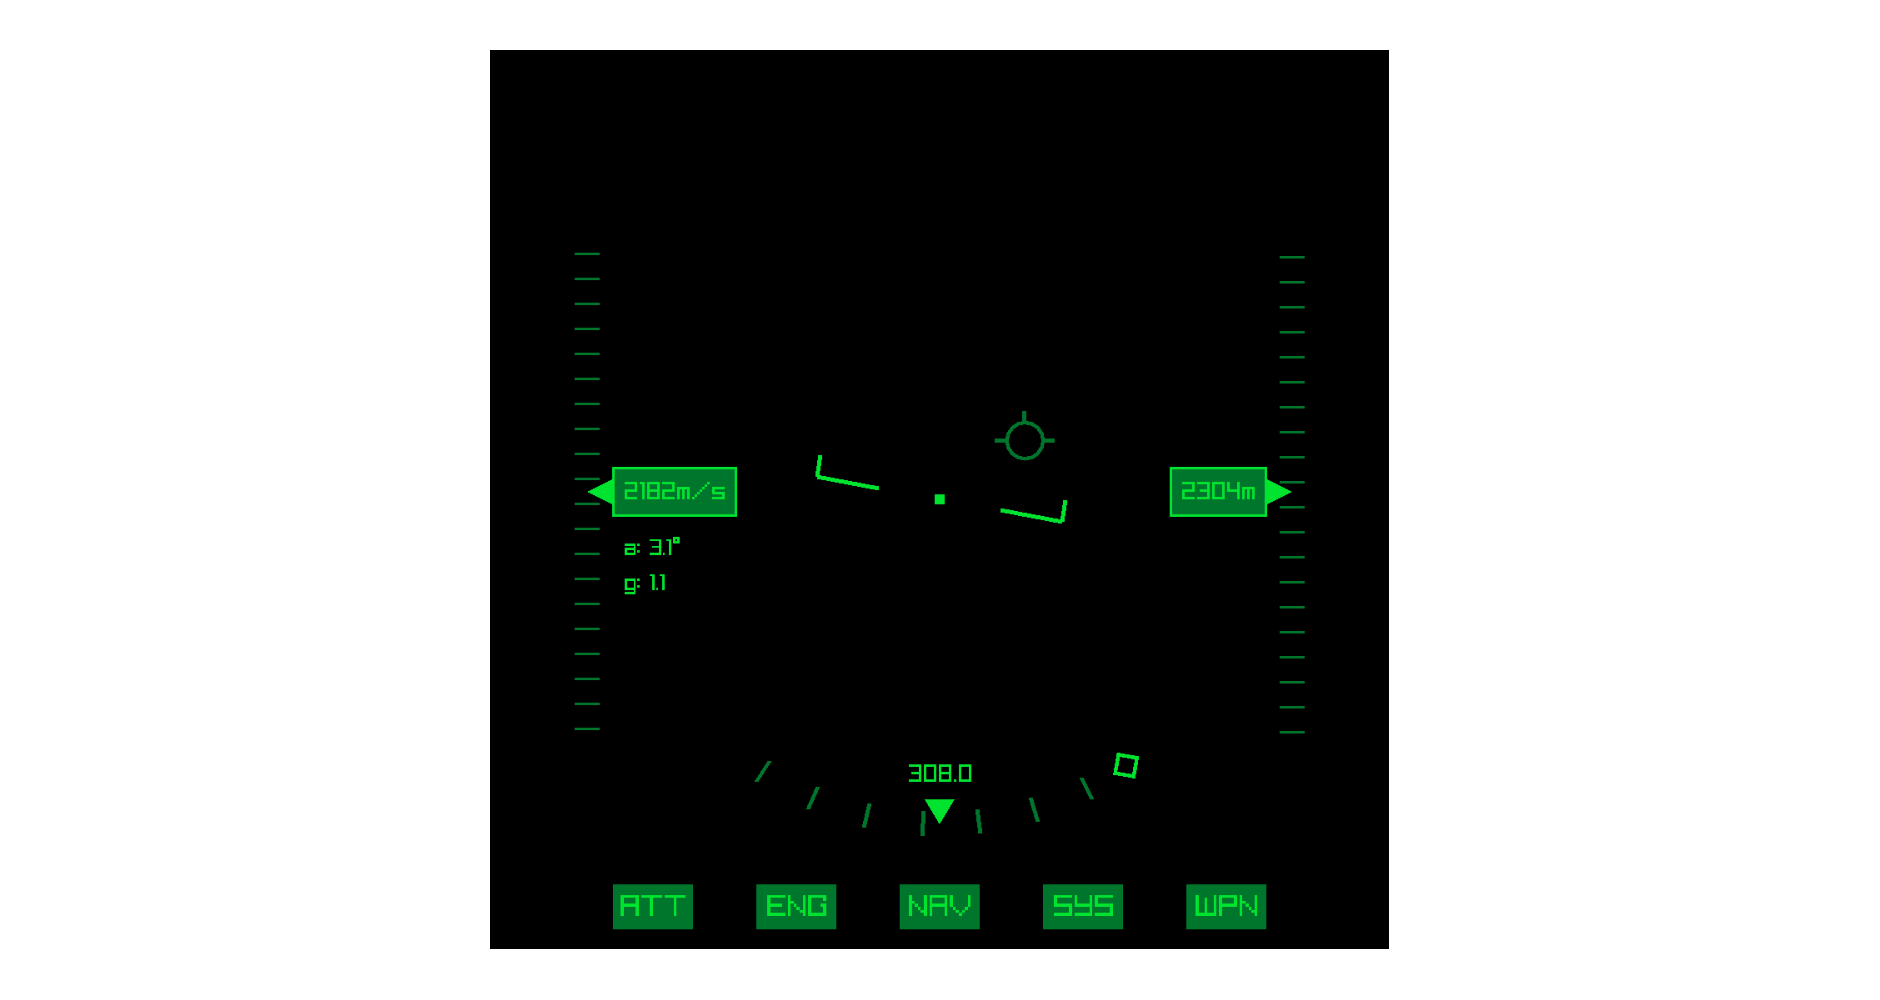
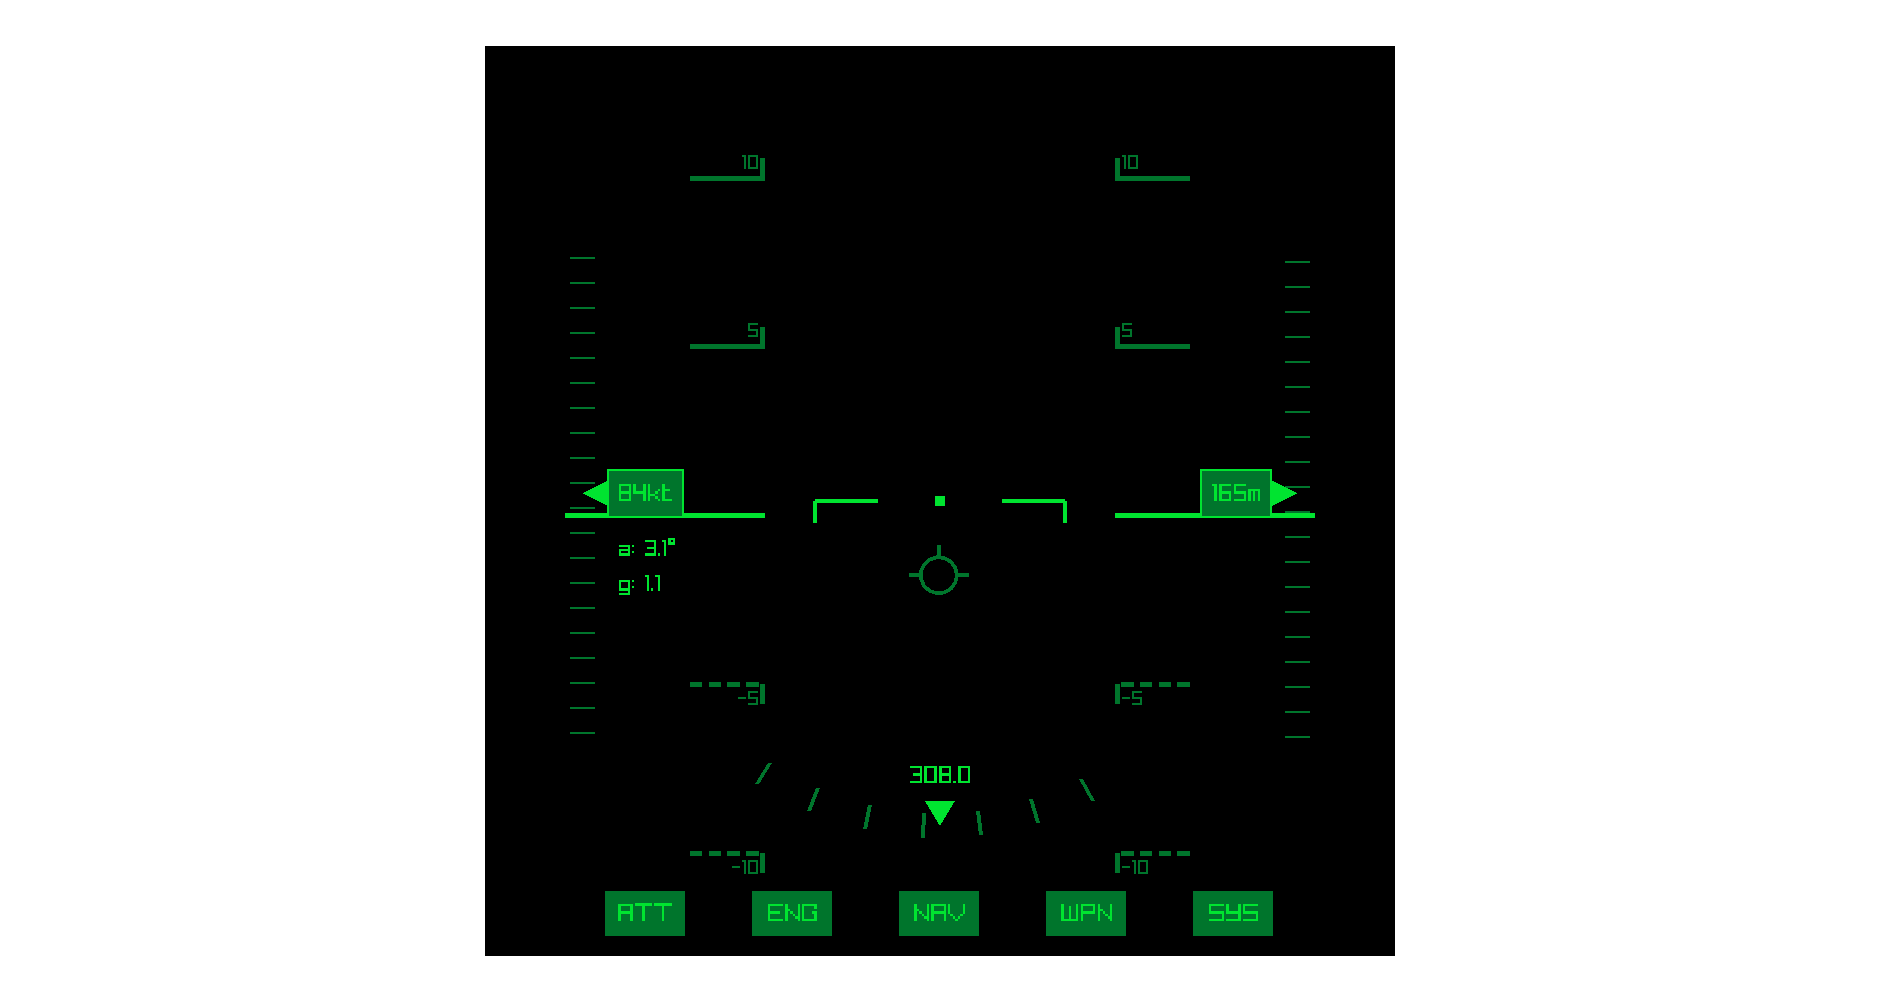
Updated README.md

diff --git a/internal/states/navigator/state.go b/internal/states/navigator/state.go
@@ -206,9 +206,9 @@ func (s _state) drawRadar(anchorX, anchorY int32, width int32) {
 	}
 	d := (float64(state.GlobalFlightData.Radar.Range/1000) / float64(s.scale)) * float64(width/4) * 3
 	rl.DrawRing(rl.Vector2{X: float32(anchorX), Y: float32(anchorY)}, float32(d)-state.ScaleF(0.5), float32(d)+state.ScaleF(0.5), 0, 360, 0, radarColor)
-	angle := float32(math.Acos(float64(state.GlobalFlightData.Radar.SteerX + 1)))
+	angle := float32(math.Acos(float64(state.GlobalFlightData.Radar.SteerX))) - 90
 	angleOffset := state.GlobalFlightData.Radar.Size / 2
-	rl.DrawRingLines(rl.Vector2{X: float32(anchorX), Y: float32(anchorY)}, float32(d)-state.ScaleF(1), 0, angle-angleOffset-90, angle+angleOffset-90, 0, radarColor)
+	rl.DrawRingLines(rl.Vector2{X: float32(anchorX), Y: float32(anchorY)}, float32(d)-state.ScaleF(1), 0, angle-angleOffset, angle+angleOffset, 0, radarColor)
 }
 
 func (s _state) drawNavInfo(anchorX, anchorY int32, width int32) {

diff --git a/README.md b/README.md
@@ -17,6 +17,8 @@ The app connects to Flyout via the [Flyout Data Socket](https://github.com/notUn
 
 You will need to use the Function Keys and Arrow Keys to navigate the app. The are currently no hints to what is doing what, and the keys are also pretty random... sooooo, you'll need to figure this out on your own... (sorry :3)
 
+I don't really plan to add clickable buttons, because i hate touchscreens in aircraft. I just want to have buttons to press. I also made this with a MFD panel for flightsimming in mind.
+
 ## Info Screens
 
 ### HUD
@@ -51,20 +53,25 @@ You can change the scale of the map with `<up-arrow>` and `<down-arrow>`. The th
 
 With `<F7>` you can enter select mode, while in select mode you can use `<left-arrow>` and `<right-arrow>` to select objects to navigate towards. With `<F8>` you can swap between navigating to nav-points or airfields. If the navigation target is outside the view a diamond will show you which heading you should follow. There is also some data about your target like distance.
 
--> This display can already show you navigation points but there is now way to add the right now so that feature will be finished soon.
+You can add new navigation points with the `EDT` button.
 
--> Intigrating flyouts radar is a bit far fetched for my abbilities to write melonloader mods but sounds cool.
+The display also shows the radar scan area (orange) and weapon range (red).
+
+-> Storing navigation point data would be so nice because using the editing panel is pain.
+
+-> I want to do targeting data but i just don't know how to get it from flyout T-T
 
 -> I don't know how big the world of flyout is, i found a number of about 10,000km radius. But i have also seen a navigation tool which used around 9,000km. Because i didn't do any testing so the distances might be off by a bit.
 
 <img src ="assets/image_navigation.png">
+
+### Weapons
+
+The weapons panel shows you detailes about your missiles and bombs. Currently you can display up to 10 weapons (Any more weapons will just not be shown). The type of weapon and the shape is defined by the guidance system setting in the missile core.
+<img src ="assets/image_weapon.png">
 
 ### Systems
 
 -> I have no clue what to display here, but maybe like reading custom axis values... you could name you axis like `MFD-axis-some name` and display it here as `some name` with a bar for sliders and light for switches, or steps.
 
 -> also displaying flaps with one of these wing thingy displays.
-
-### Weapons
-
--> I have the data of the weaons already but i need to find a way to show it... I have not worked on that yet.
